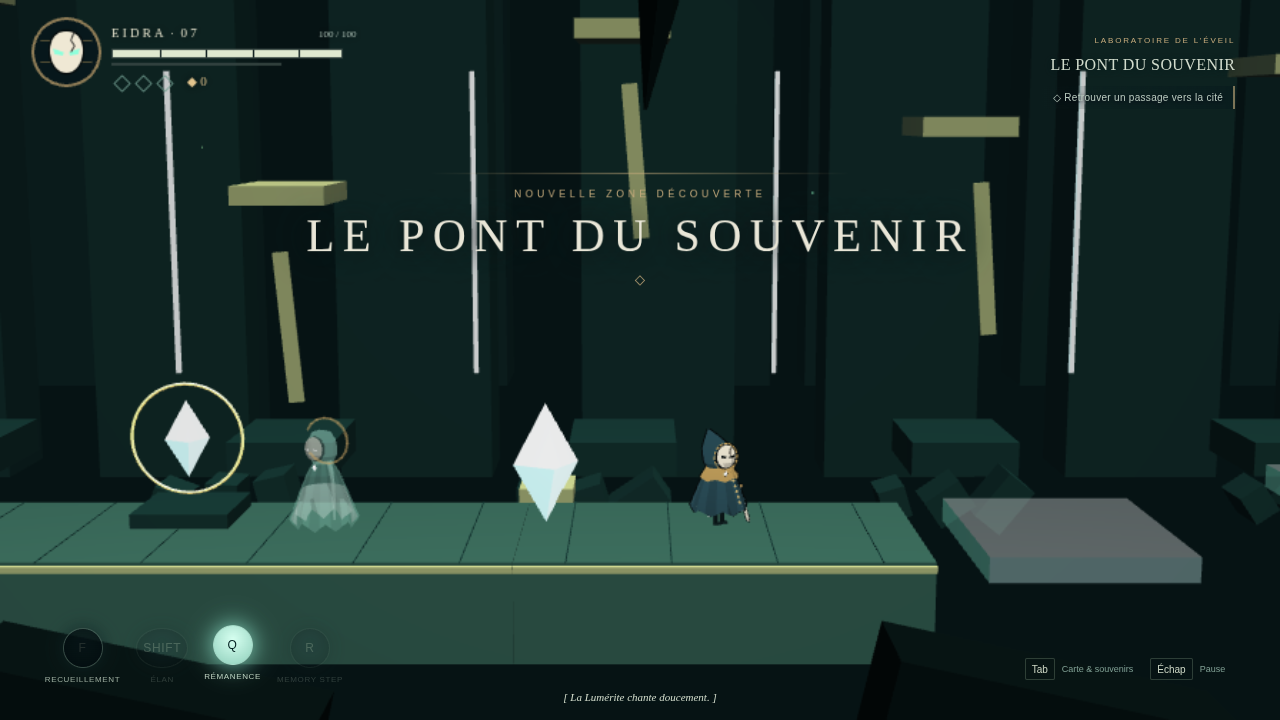
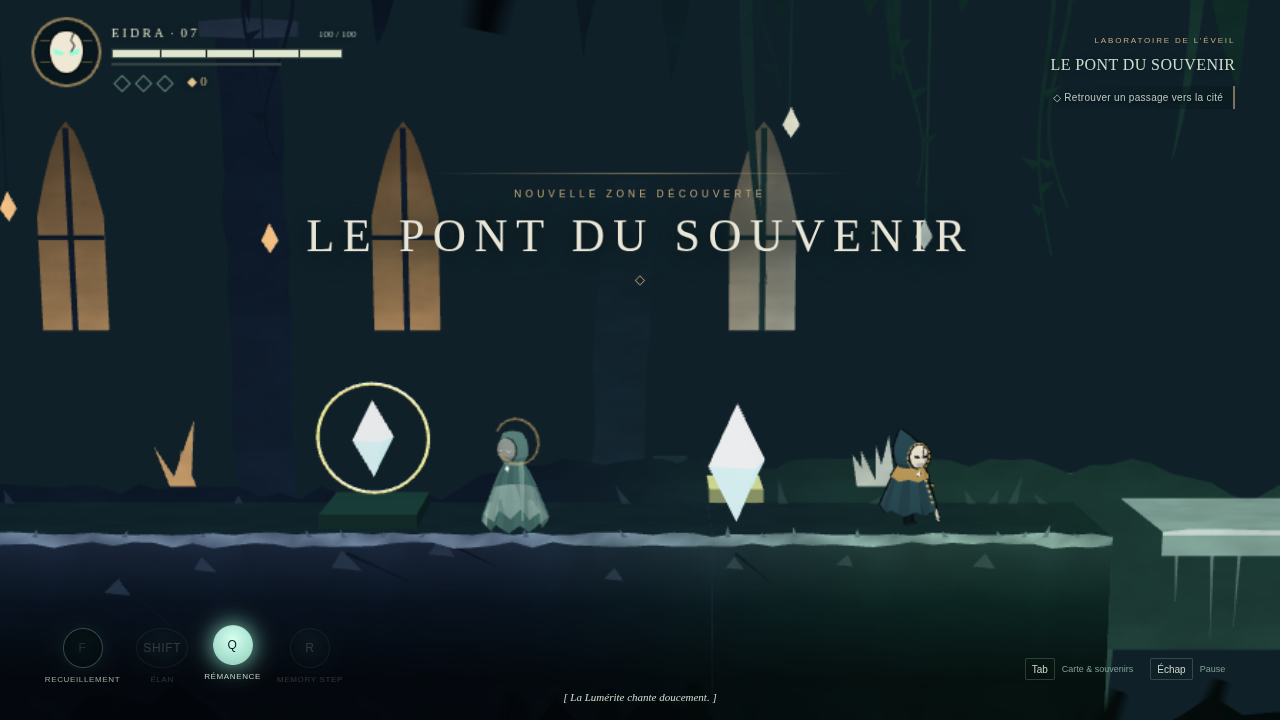
Document the painted scenery, sector moods and their cost
Decisions D023-D024, art direction (painted layers, lights, sector
palette table), architecture, level design, test coverage (84 unit
tests) and an A/B performance comparison showing the unlit painted set
renders faster than the former lit blockout, with refreshed evidence.

Claude-Session: https://claude.ai/code/session_01Q4HpwgZSs3YSowU4xBjobR

diff --git a/docs/ART_DIRECTION.md b/docs/ART_DIRECTION.md
@@ -10,7 +10,21 @@ Le plan jouable reçoit le contraste le plus fort. Arrière-plan désaturé et b
 
 ## Profondeur et lumière
 
-Cinq plans lisibles : ciel en dégradé qui se fond dans la brume, ligne d'horizon de tours à z = 44, colonnades et arches, plan jouable, silhouettes quasi noires au premier plan (dents de pierre en haut, éboulis en bas). La caméra perspective (D013) donne à chaque plan sa vitesse de défilement. Des rayons additifs tombent des fenêtres. L'étalonnage ACES et la vignette resserrent le regard sur le centre ; la vignette rougit quand Eidra est en danger. En LOW, rayons, ciel et étalonnage sont coupés pour la performance (D014).
+Le décor est peint, pas éclairé (D023) : des silhouettes plates, aux bords irréguliers, empilées comme des découpes dans une brume colorée. Du plus proche au plus lointain : lisière pâle des dalles avec touffes et racines, masse de terre sombre jusqu'au bas de l'écran, éboulis qui cachent l'arrière des dalles, plafond de caverne et dents, architecture du secteur, arches, caverne lointaine, tours de la cité oubliée fondues dans l'horizon, ciel en dégradé. L'avant-plan, quasi noir et aux bords flous, n'encadre que le haut et le bas de l'écran. Plus un plan est lointain, plus il est clair et proche de la couleur d'horizon ; la brume s'accumule au sol. Une texture « pinceau » procédurale donne un grain peint à toutes les surfaces. La caméra perspective (D013) donne à chaque plan sa vitesse de défilement. L'étalonnage ACES et la vignette resserrent le regard sur le centre ; la vignette rougit quand Eidra est en danger. En LOW, plans lointains, halos, rayons, brume, ciel et étalonnage sont coupés pour la performance (D014, D024).
+
+Lumière : les sources sont peintes (lanternes suspendues à des chaînes, amas de Lumérite sur les éboulis, vitraux en ogive à meneaux) et entourées de halos additifs. Des rayons obliques et des nappes de brume qui dérivent lentement complètent l'atmosphère. Les plateformes de mémoire sont des dalles fantômes pâles d'où pendent des filets de lumière ; elles s'illuminent quand la Rémanence les rend solides.
+
+## Ambiances des secteurs
+
+Chaque secteur a sa couleur, fondue avec ses voisins sur 12 m (D024) :
+
+| Secteur                | Dominante                 | Lumière       | Motif                                    |
+| ---------------------- | ------------------------- | ------------- | ---------------------------------------- |
+| Chambre d'éveil        | turquoise froid, Lumérite | vert d'eau    | voûte, piliers, arches en plein cintre   |
+| Galerie des veilleurs  | bleu acier                | ambre         | galerie de vitraux en ogive              |
+| Pont du souvenir       | jade pâle, brume dense    | blanc de jade | abîme, piles brisées, racines suspendues |
+| Chambre du contrepoids | bronze, rouille           | orange chaud  | engrenages, chaînes, conduites           |
+| Porte de l'obéissance  | indigo                    | or pâle       | salle du trône, bannières, piliers       |
 
 Personnages : marionnettes stylisées à contours encrés et ombrage cartoon à trois tons, hors brouillard pour rester lisibles. Eidra : capuche pointue rejetée en arrière, masque de céramique fêlé cerclé d'or, yeux de Lumérite, col doré, rangée de clous, cape plissée à pointes, écharpe claire qui flotte derrière elle, jambes fines. Veilleur : très haute capuche, œil unique ambré, hallebarde. Porteur de cendres : trapu, trois yeux, urne sur le dos. Porteur du dernier ordre : bannière, col et clous dorés. Souvenir errant : masque flottant aux voiles translucides. Mira : robe et capuche de mémoire translucides, yeux clos, auréole brisée. Gardien Sans Visage : masque vierge traversé d'une faille lumineuse, auréoles brisées, épaulières. Les yeux s'élargissent et le contour vire à l'ambre pendant un télégraphe. Les coups se lisent par un croissant de lame (ivoire, cristal pour la charge, or pour la riposte), un flash blanc, un hit-stop et des éclats. Les ennemis vaincus se dissolvent en blanc au lieu de disparaître.
 

diff --git a/docs/ARCHITECTURE.md b/docs/ARCHITECTURE.md
@@ -30,7 +30,9 @@ GameError, ConfigurationError, AssetLoadError et SaveError. Échec critique : é
 
 `Game` gère les états, la boucle à pas fixe 1/60 s (rattrapage borné à six pas), les menus et les services. `GameSession` relie les systèmes de domaine, le contrôleur et les événements de progression. `Presentation`, `CharacterView`, `Hud` et `EffectPool` consomment l’état sans décider des dégâts ou des conditions narratives. Les touches restent dans `InputManager`, remappables via `InputAction`.
 
-`GameSession` émet des événements typés (`ENEMY_DAMAGED`, `ENEMY_DEFEATED`, `PLAYER_HEALED`, `PARRIED`, `OFFERING_MADE`) que `Game` relaie vers `Hud` (chiffres, barres ennemies) et `Presentation` (flashs, ondes, éclats). Les effets visuels réutilisables vivent dans `vfx` : `SlashArc` (croissant de lame), `Afterimages` (traînée de dash), `Motes` (éclats attirés, canalisation), `EffectPool` (étincelles, poussière, ondes de choc) et `textures` (dégradés procéduraux TODO_ART). `CharacterView` assemble chaque personnage depuis `game-data/characters/appearance.ts` avec `PuppetGeometry` (géométrie toon à couleurs de sommets) et anime ses parties (jambes, lame, clignement, écharpe via `SecondaryChain`) ; il reçoit une `Pose` purement visuelle (squash & stretch, flash, canalisation, dissolution). `Backdrop` dessine le ciel lointain ; `CameraRig` est une caméra perspective à longue focale (voir D013).
+`GameSession` émet des événements typés (`ENEMY_DAMAGED`, `ENEMY_DEFEATED`, `PLAYER_HEALED`, `PARRIED`, `OFFERING_MADE`) que `Game` relaie vers `Hud` (chiffres, barres ennemies) et `Presentation` (flashs, ondes, éclats). Les effets visuels réutilisables vivent dans `vfx` : `SlashArc` (croissant de lame), `Afterimages` (traînée de dash), `Motes` (éclats attirés, canalisation), `EffectPool` (étincelles, poussière, ondes de choc) et `textures` (dégradés procéduraux TODO_ART). `CharacterView` assemble chaque personnage depuis `game-data/characters/appearance.ts` avec `PuppetGeometry` (géométrie toon à couleurs de sommets) et anime ses parties (jambes, lame, clignement, écharpe via `SecondaryChain`) ; il reçoit une `Pose` purement visuelle (squash & stretch, flash, canalisation, dissolution). `Backdrop` dessine le ciel lointain en dégradé de sommets recoloré par l'ambiance ; `CameraRig` est une caméra perspective à longue focale (voir D013).
+
+Décor (D023, D024) : `Mood` décode les ambiances de `game-data/zones/moods.ts` et les fond entre secteurs (`tintAt`). `PaintedGeometry` construit des bandes, rubans (bords éventuellement adoucis par l'alpha des sommets), triangles, sols, murs et sprites à couleurs de sommets et UV monde. `Scenery.paintScenery` produit de façon déterministe les géométries d'un secteur (proche, lointain, avant-plan, halos, rayons, souvenirs) ; `ChunkView` les transforme en six maillages, garde les boîtes des données comme colliders invisibles et bascule les couches selon le preset. `Atmosphere` gère les bandes de brume qui suivent la caméra et font défiler leur texture avec le monde.
 
 `TutorialDirector` (quests) choisit l'invite contextuelle à partir des données de `game-data/quests/tutorial.ts` ; `GameSession` lui signale les gestes accomplis et expose `hint`, que `MenuUI` affiche avec les glyphes du dernier périphérique.
 

diff --git a/docs/DECISIONS.md b/docs/DECISIONS.md
@@ -93,3 +93,11 @@ Les ennemis se déplacent le long d'un intervalle calculé à partir des dalles 
 ## D022 — Poses clés dérivées de l'état, animation hors domaine
 
 Les anticipations, frappes, récupérations et reculs sont calculés par des fonctions pures (`src/animation/Poses.ts`) à partir de l'état des FSM, du directeur de boss et du combat, puis appliqués par `CharacterView` comme décalages (inclinaison, avance, élévation, écrasement, arme levée, tremblement, agenouillement). Aucun temps d'animation n'influence le gameplay : les fenêtres de dégâts restent celles des données. La mort retarde seulement l'affichage du panneau (1,3 s, 0,35 s en mouvements réduits) ; la simulation s'arrête immédiatement. Le réglage « mouvements réduits » annule décalages et tremblements.
+
+## D023 — Décor peint en silhouettes superposées
+
+Le décor procédural en boîtes éclairées (colonnes, arches, tours, éboulis) est remplacé par des silhouettes plates et non éclairées, empilées en profondeur comme des découpes : plafond de caverne et dents à z = 4, architecture à 6,5, arches à 14, caverne lointaine à 26, cité à 44, avant-plan flou à −7. Chaque forme est une bande ou un ruban (`PaintedGeometry`), donc aucune triangulation générale ni dépendance n'est nécessaire. La couleur est peinte dans les sommets (perspective atmosphérique : proche = sombre, lointain = fondu vers l'horizon, brume au sol) et modulée par une texture « pinceau » procédurale en UV monde. Tout le décor d'un secteur tient en six maillages (proche, lointain, avant-plan, halos, rayons, souvenirs), construits de façon déterministe à partir de la graine du secteur. Les colliders restent les boîtes des données, rendues invisibles ; la face peinte des dalles est avancée à z = −0,5 pour que la lisière claire passe sous les pieds des personnages. Aucun élément peint ne passe devant le plan de jeu, sauf l'habillage des dalles (lisière, touffes courtes), ce que vérifie un test unitaire.
+
+## D024 — Ambiance par secteur pilotée par les données
+
+`game-data/zones/moods.ts` (validé par Zod) donne à chaque secteur ses couleurs (brouillard, ciel, horizon, proche / milieu / lointain, sol, lisière, brume, lumière), son motif d'architecture (voûte, galerie, abîme, machinerie, trône), sa végétation, ses lanternes et sa brume. `tintAt(x)` fond deux secteurs voisins sur 12 m ; le brouillard, la couleur d'effacement, le ciel, les bandes de brume et la poussière suivent la caméra, et les couleurs peintes suivent la position de chaque sommet, sans couture entre secteurs. Les halos et rayons sont additifs et teintés par leurs sommets. Le preset LOW retire les couches lointaines, halos et rayons ; les bandes de brume sont réservées à MEDIUM (deux) et HIGH / ULTRA (trois). Le passage en non éclairé réduit le coût du rendu logiciel (voir PERFORMANCE) : aucune optimisation supplémentaire n'a été nécessaire.

diff --git a/docs/PERFORMANCE.md b/docs/PERFORMANCE.md
@@ -59,6 +59,22 @@ Comparaison A / B dans la même session (build `main` précédent contre ce buil
 
 Protocole standard (`tools/benchmark.mjs`, chambre d'éveil immobile, 120 images) : MEDIUM CPU 3,5 / 6,9 ms, rendu logiciel 150,7 / 209,1 ms, 62 draw calls, 54 608 triangles ; LOW CPU 2,2 / 6,0 ms, rendu 52,4 / 76,4 ms, 29 draw calls, 28 440 triangles. Ces valeurs absolues varient d'une exécution à l'autre sur cette machine ; seule la comparaison A / B ci-dessus isole l'effet des changements. Douze allers-retours x = 123 / 7 : 259 / 245 meshes (quatre portes d'arène et le maillage des lames de lumière, désactivés hors usage), 7 / 5 ressources physiques (à x = 123, la porte du fond de l'arène du Porteur est à moins de 45 m et reçoit son collider statique), 2 / 1 chunks, stables. Bundle principal : 1,88 Mo minifié / 463 ko gzip.
 
+### Quatrième itération : décor peint et ambiances
+
+Comparaison A / B dans la même session (build `main` précédent contre ce build, servis côte à côte, médiane de 40 images par scène, moyenne de deux passages en MEDIUM, un passage en HIGH et LOW), 1280 × 720, SwiftShader. Frame médiane en ms, avant → après :
+
+| Scène (x)                  | MEDIUM        | HIGH          | LOW         |
+| -------------------------- | ------------- | ------------- | ----------- |
+| Chambre d'éveil (10)       | 189,3 → 181,4 | 275,1 → 256,1 | 89,9 → 72,9 |
+| Galerie des veilleurs (57) | 189,0 → 193,8 | 268,7 → 248,7 | 70,3 → 55,3 |
+| Pont du souvenir (96)      | 176,9 → 168,6 | 250,3 → 217,6 | 59,8 → 45,1 |
+| Arène du Porteur (146)     | 187,9 → 176,6 | 261,0 → 216,5 | 64,5 → 52,8 |
+| Arène du Gardien (170)     | 176,8 → 166,3 | 250,5 → 205,7 | 65,4 → 49,7 |
+
+Le décor peint est **plus rapide** que l'ancien décor en boîtes éclairées : de −4 à −6 % en MEDIUM (sauf la galerie, +2,5 %, dans le bruit), de −7 à −18 % en HIGH, de −18 à −25 % en LOW (mesure LOW prise avant l'ajout des dalles fantômes, qui ajoutent un maillage par secteur à mémoire). Les matériaux non éclairés évitent l'éclairage par fragment et les faces latérales des boîtes ; les draw calls restent comparables (±6), car chaque secteur ne compte plus que six maillages peints. CPU inchangé à ±0,6 ms : la génération du décor se fait une fois au chargement du secteur.
+
+Protocole standard (`tools/benchmark.mjs`) : MEDIUM CPU 3,8 / 6,5 ms, rendu logiciel 156,7 / 198,0 ms, 64 draw calls, 54 794 triangles ; LOW CPU 2,2 / 3,7 ms, rendu 47,5 / 77,4 ms, 26 draw calls, 27 921 triangles. Douze allers-retours x = 123 / 7 : 262 / 251 meshes, 7 / 5 ressources physiques, 2 / 1 chunks, stables. Bundle principal : 1,89 Mo minifié / 469 ko gzip.
+
 Mesures brutes : [performance.json](evidence/performance.json) (dernière itération).
 
 ## Optimisation et stabilité

diff --git a/README.md b/README.md
@@ -49,6 +49,8 @@ Cinq secteurs du laboratoire ; mouvement avec coyote time et jump buffer ; capsu
 
 Personnages : silhouettes stylisées et originales pilotées par les données — capuches pointues, capes plissées à pointes, masques de céramique fêlés aux yeux lumineux qui clignent, cols dorés, écharpe et voiles animés, jambes animées selon la distance parcourue, contours encrés et ombrage cartoon. UX : tutoriel contextuel qui retire chaque invite dès que le geste est fait, réglages par onglets avec valeurs affichées et réinitialisation, notifications empilées, cartes de sauvegarde détaillées, pause avec objectif et rappel des commandes, carte en itinéraire, conseils à la mort et au chargement.
 
+Décor : silhouettes peintes superposées dans une brume colorée, avec une ambiance propre à chaque secteur (turquoise, bleu et ambre, jade, bronze, indigo et or), lisières claires sous les pieds, lanternes et halos, rayons, nappes de brume qui dérivent, dalles de mémoire fantômes.
+
 Arènes : le Porteur du dernier ordre et le Gardien Sans Visage scellent leur arène ; impossible de passer sans les vaincre. Les ennemis restent sur leur sol, ne traversent pas les dalles et blessent au contact. Animation : anticipation, fente et affaissement lisibles pour chaque attaque, poses propres à chaque pattern du Gardien, masque qui éclate à la mort et reconstitution à l'ancrage, poussière de course, de saut et d'esquive, lames de lumière pour les pouvoirs et les victoires.
 
 Présentation : caméra perspective à longue focale (parallaxe réelle des décors et silhouettes de premier plan), étalonnage ACES et vignette dans les shaders, rayons de lumière, ciel en dégradé, rim light des personnages, squash & stretch, traînée de dash, poussière d’atterrissage, flash blanc à l’impact, dissolution des ennemis, éclats attirés vers Eidra, chiffres de dégâts, barres de vie ennemies, barres « chip », cartes de titre (zones, boss, victoires), bannière de pouvoir, dialogues tapés, invites adaptées au périphérique.

diff --git a/docs/RELEASE_NOTES.md b/docs/RELEASE_NOTES.md
@@ -24,6 +24,14 @@
 - **Animation** : anticipation / frappe / récupération lisibles pour chaque ennemi, silhouettes propres à chaque pattern du Gardien, sursaut à la détection, recul à l'impact ; inclinaison d'Eidra dans les coups et l'esquive, poussière de course et de saut, agenouillement à l'ancrage ; masque qui éclate à la mort puis reconstitution en lumière ; lames de lumière pour les pouvoirs et les gardiens vaincus ; portes qui jaillissent du sol.
 - **UX** : autel sur le côté pour voir le repos, HUD qui tressaute sous les coups et bat à faible vie, caméra qui revient directement à l'ancrage au respawn, musique de combat aussi contre le Porteur.
 
+### Quatrième itération : décor peint et ambiances
+
+- **Décor peint** : le laboratoire est redessiné en silhouettes superposées dans une brume colorée — plafond de caverne et dents, lianes et racines, piliers ébréchés, arches, caverne lointaine, tours de la cité oubliée, avant-plan flou.
+- **Ambiances** : chaque secteur a sa couleur et son motif (voûte turquoise, galerie bleue aux vitraux ambrés, abîme de jade, machinerie de bronze, salle du trône indigo et or), fondus entre eux.
+- **Sols** : lisière pâle et irrégulière sous les pieds, touffes, pierres et racines, masse de terre sombre ; plateformes de mémoire en dalles fantômes lumineuses.
+- **Lumière et atmosphère** : lanternes, amas de Lumérite, vitraux et ancrages entourés de halos, rayons teintés, nappes de brume qui dérivent, poussière aux couleurs du secteur.
+- **Performance** : plus rapide qu'avant en rendu logiciel (jusqu'à −18 % en HIGH, −25 % en LOW).
+
 ## Limites connues de cette mise à jour
 
 - Les valeurs (résonance, coûts d'offrande, durées de hit-stop, pluie d'éclats) sont des propositions de conception ; aucun playtest humain ne les a encore validées.

diff --git a/docs/LEVEL_DESIGN.md b/docs/LEVEL_DESIGN.md
@@ -10,6 +10,8 @@
 
 Favoriser des boucles courtes, des vues sur les passages inaccessibles et un retour après acquisition. Chaque secteur possède ses ressources et ses proxies de collision. Ne jamais charger les neuf régions ensemble.
 
+Chaque secteur a une ambiance et un motif de décor décrits dans `game-data/zones/moods.ts` (voir ART_DIRECTION) ; le décor en est généré à partir de la graine du secteur, sans placement manuel. Un nouveau secteur doit y recevoir une entrée (test unitaire).
+
 ## Monde complet (planifié)
 
 Laboratory of Awakening ↔ Ash Rifts ↔ Glass Gardens ↔ Still Sea ↔ Drowned Archives ↔ Cathedral of Voices ↔ Broken Observatory ↔ Inverted Palace ↔ Heart of Remembrance. Des boucles transversales et raccourcis doivent remplacer une simple chaîne avant production. Fast travel tardif.
